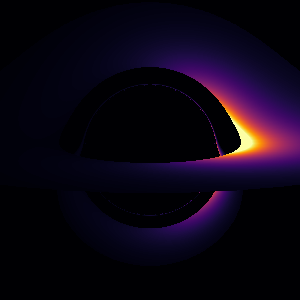
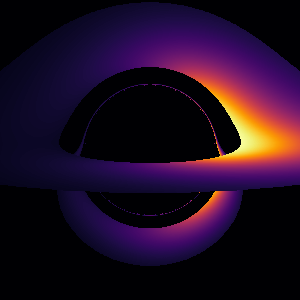
C++ ray tracer: fix the spin-axis seam, put the disk edge at the ISCO
- Rays flying over the spin axis came out with theta < 0, where the far-side
  equator is at -pi/2, so the disk test missed them and the alpha = 0 pixel
  column rendered as a black line through the lensed disk (visible at odd
  resolutions). Reflect them back onto the same point of space (theta -> -theta,
  phi -> phi + pi, p_theta -> -p_theta), as the GPU renderer does.
- Add Kerr::isco() and default the disk's inner edge to it (Camera::r_in <= 0),
  instead of the a = 0 value 6M for every spin.
- Tests: ISCO at a = 0, 0.9, 1, and a regression test for the axis seam (fails
  without the fix).
- render_image.py tone-maps brightness instead of scaling linearly to the
  beamed peak; regenerate the ray-tracing figures; README updated.

diff --git a/simulation/tests/test_kerr.cpp b/simulation/tests/test_kerr.cpp
@@ -1,7 +1,9 @@
 // Phase 4 tests: validate the Kerr Hamiltonian integrator three ways —
 //   1. a = 0 reproduces the Schwarzschild integrator (equatorial photon),
 //   2. it matches the MATLAB ode113 reference fixture (a = 0.5),
-//   3. the Hamiltonian H and the constants E, L_z stay conserved.
+//   3. the Hamiltonian H and the constants E, L_z stay conserved,
+//   4. the ISCO formula hits its known values,
+//   5. a ray flying over the spin axis still finds the disk behind the hole.
 // Returns nonzero on any failure (CTest reports it as failed).
 
 #include <algorithm>
@@ -16,6 +18,7 @@
 #include "geodesic.hpp"
 #include "integrator.hpp"
 #include "metric.hpp"
+#include "raytrace.hpp"
 
 using namespace bhsim;
 
@@ -139,6 +142,30 @@ int main() {
         std::printf("       drift: |dH|=%.2e |dE|=%.2e |dLz|=%.2e\n", max_dH, max_dE, max_dLz);
         check(max_dH < 1e-6, "Kerr Hamiltonian conserved");
         check(max_dE < 1e-12 && max_dLz < 1e-12, "E and L_z exactly conserved");
+    }
+
+    {
+        // 4. ISCO: 6M without spin, M at extremal spin, ~2.3209M at a = 0.9.
+        check(std::fabs(Kerr{1.0, 0.0}.isco() - 6.0) < 1e-12, "ISCO = 6M at a = 0");
+        check(std::fabs(Kerr{1.0, 1.0}.isco() - 1.0) < 1e-12, "ISCO = M at a = M");
+        check(std::fabs(Kerr{1.0, 0.9}.isco() - 2.320883) < 1e-6, "ISCO = 2.3209M at a = 0.9");
+    }
+
+    {
+        // 5. The pixel column alpha = 0 lies in the plane of the spin axis, so its
+        //    rays above the hole pass straight over the pole. They must still see
+        //    the far side of the disk lensed up over the shadow, like their
+        //    neighbours, rather than a black line through the image.
+        Camera cam;
+        cam.a = 0.9;
+        const Kerr bh{1.0, cam.a};
+        bool ok = true;
+        for (double beta : {5.0, 6.0, 7.0, 8.0}) {
+            const double on_axis = trace_pixel(bh, cam, 0.0, beta);
+            const double beside  = trace_pixel(bh, cam, 0.06, beta);
+            if (!(beside > 0.0 && std::fabs(on_axis - beside) < 0.05 * beside)) ok = false;
+        }
+        check(ok, "ray over the spin axis sees the lensed disk (no axis seam)");
     }
 
     std::printf("\n%d failure(s)\n", failures);

diff --git a/simulation/src/raytrace.cpp b/simulation/src/raytrace.cpp
@@ -89,6 +89,7 @@ double trace_pixel(const Kerr& bh, const Camera& cam, double alpha, double beta)
     const double r_capture = 1.01 * bh.horizon();
     const double atol = 1e-7, rtol = 1e-7;  // loose: images do not need 1e-10
     const long max_steps = 100000;
+    const double r_in = (cam.r_in > 0.0) ? cam.r_in : bh.isco();
     double h = 1.0;
 
     for (long i = 0; i < max_steps; ++i) {
@@ -96,6 +97,18 @@ double trace_pixel(const Kerr& bh, const Camera& cam, double alpha, double beta)
         const double th_before = y[KTH];
 
         adaptive_step<8>(y, h, rhs, atol, rtol);
+
+        // Crossed the spin axis (theta left [0, pi])? Boyer-Lindquist coordinates
+        // are singular there, so a ray that flies over the pole comes out with
+        // theta < 0 (or > pi), where the far-side equator sits at -pi/2 and the
+        // disk test below would never see it. Map it back onto the same point of
+        // space: theta -> -theta, phi -> phi + pi, p_theta -> -p_theta. This is the
+        // exact continuation of the geodesic through the axis.
+        if (y[KTH] < 0.0 || y[KTH] > PI) {
+            y[KTH] = (y[KTH] < 0.0) ? -y[KTH] : 2.0 * PI - y[KTH];
+            y[KPHI] += PI;
+            y[KPTH] = -y[KPTH];
+        }
 
         // Fell through the horizon: this pixel is in the shadow.
         if (y[KR] <= r_capture) return 0.0;
@@ -109,8 +122,8 @@ double trace_pixel(const Kerr& bh, const Camera& cam, double alpha, double beta)
         if (f0 * f1 < 0.0) {
             const double frac = f0 / (f0 - f1);
             const double r_cross = r_before + frac * (y[KR] - r_before);
-            if (r_cross >= cam.r_in && r_cross <= cam.r_out) {
-                const double v = cam.r_in / r_cross;  // in (0, 1], 1 at the edge
+            if (r_cross >= r_in && r_cross <= cam.r_out) {
+                const double v = r_in / r_cross;      // in (0, 1], 1 at the edge
                 const double emis = v * v;            // inner disk glows brighter
                 // p_t and p_phi are conserved, so y still holds their disk values.
                 const double g = disk_redshift(bh, r_cross, y[KPT], y[KPPH]);

diff --git a/simulation/viz/render_image.py b/simulation/viz/render_image.py
@@ -47,16 +47,19 @@ def render(exe: str, a: float, res: int) -> np.ndarray:
     return np.array([[float(v) for v in row.split()] for row in lines[1:]])
 
 
-def colorize(img: np.ndarray) -> np.ndarray:
+def colorize(img: np.ndarray, exposure: float = 1.6) -> np.ndarray:
     """Map brightness to 8-bit RGB with the chosen colormap.
 
-    Doppler beaming gives the approaching side a huge brightness spike, so a few
-    pixels would otherwise wash out everything else. Normalising to a high
-    percentile (not the raw maximum) keeps the dim receding side visible.
+    Doppler beaming gives the approaching inner edge a brightness spike orders of
+    magnitude above the rest of the disk, so a linear scale would leave
+    everything but that spike black. We tone-map instead: normalise to a high
+    percentile, then roll off as 1 - exp(-exposure * x), which keeps the dim
+    receding side and the outer disk visible without clipping the bright side.
     """
     lit = img[img > 0]
-    hi = np.percentile(lit, 99.5) if lit.size else 1.0
-    rgba = matplotlib.colormaps[CMAP](np.clip(img / hi, 0.0, 1.0))
+    ref = np.percentile(lit, 97) if lit.size else 1.0
+    v = 1.0 - np.exp(-exposure * img / ref)
+    rgba = matplotlib.colormaps[CMAP](np.clip(v, 0.0, 1.0))
     return (rgba[..., :3] * 255).astype(np.uint8)
 
 

diff --git a/simulation/include/metric.hpp b/simulation/include/metric.hpp
@@ -37,6 +37,16 @@ struct Kerr {
 
     // Outer event horizon r_+ = M + sqrt(M^2 - a^2).
     double horizon() const { return M + std::sqrt(M * M - a * a); }
+
+    // Prograde innermost stable circular orbit (Bardeen, Press & Teukolsky 1972):
+    // 6M at a = 0, shrinking toward M as a -> M. Where an accretion disk ends.
+    double isco() const {
+        const double x = a / M;
+        const double z1 = 1.0 + std::cbrt(1.0 - x * x)
+                                * (std::cbrt(1.0 + x) + std::cbrt(1.0 - x));
+        const double z2 = std::sqrt(3.0 * x * x + z1 * z1);
+        return M * (3.0 + z2 - std::sqrt((3.0 - z1) * (3.0 + z1 + 2.0 * z2)));
+    }
 };
 
 }  // namespace bhsim

diff --git a/simulation/include/raytrace.hpp b/simulation/include/raytrace.hpp
@@ -21,7 +21,8 @@ struct Camera {
     double r_cam  = 1000.0; // camera distance from the hole, in units of M
     double half_width = 12.0; // half the image width on the sky, in units of M
     int    res    = 200;    // output is res x res pixels
-    double r_in   = 6.0;    // disk inner edge (the ISCO for a non-spinning hole)
+    double r_in   = 0.0;    // disk inner edge; <= 0 means the ISCO for this spin
+                            // (6 M at a = 0, about 2.32 M at a = 0.9)
     double r_out  = 20.0;   // disk outer edge
 };
 

diff --git a/simulation/README.md b/simulation/README.md
@@ -426,8 +426,11 @@ Turn on spin and the picture goes further lopsided:
 </p>
 
 Frame dragging sweeps light around the direction of rotation, flattening one side
-of the shadow into the characteristic Kerr "D". Sweeping the spin up shows the
-shadow sliding and reshaping while the beamed side stays bright:
+of the shadow into the characteristic Kerr "D". Spin also lets gas orbit stably
+much closer in, so the disk's inner edge (the ISCO) moves from $6M$ at $a = 0$ to
+about $2.3M$ at $a = 0.9$, filling the gap between disk and shadow. Sweeping the
+spin up shows the shadow sliding and reshaping while the disk creeps inward and
+the beamed side stays bright:
 
 <p align="center">
   <img src="figures/raytrace_spin.gif" alt="Ray-traced shadow morphing with spin">
@@ -453,8 +456,17 @@ python simulation/viz/render_image.py --sweep    # writes the spin gif
 On Windows, pass the executable path if it is not found automatically, for
 example `python simulation/viz/render_image.py .\simulation\build\Release\bhsim.exe`.
 
-The disk here is a flat glowing annulus with an $r^{-2}$ emissivity, shaded by the
-full relativistic $g^4$ factor above.
+The disk here is a flat glowing annulus from the spin's ISCO out to $20M$, with
+an $r^{-2}$ emissivity, shaded by the full relativistic $g^4$ factor above. The
+beamed inner edge is orders of magnitude brighter than the rest, so the viewer
+tone-maps the brightness (a smooth roll-off rather than a linear scale) to keep
+the dim side visible.
+
+Rays that pass directly over the spin axis (the image's centre column) need one
+extra step: Boyer-Lindquist coordinates are singular on the axis, and a ray that
+flies over it comes out with $\theta < 0$. The tracer maps it back onto the same
+point of space ($\theta \to -\theta$, $\phi \to \phi + \pi$, $p_\theta \to -p_\theta$),
+the exact continuation of the geodesic, so those pixels still find the disk.
 
 ### Spinning black hole clip (GPU)
 
